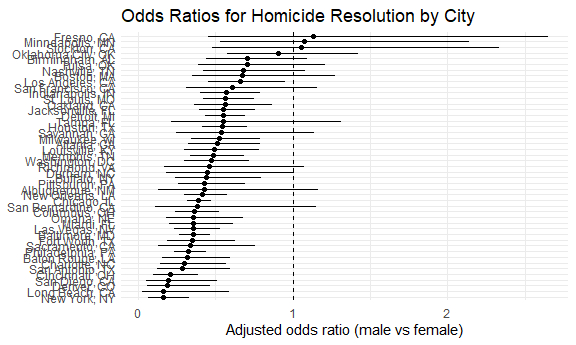
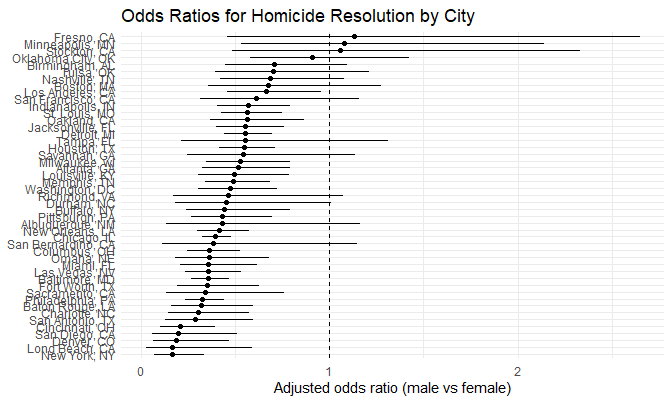
try to improve plot

Changed region(s): [[0.0, 0.0, 0.9688, 0.8986], [0.375, 0.8986, 0.8125, 0.9855], [0.1875, 0.8986, 0.25, 0.9275]]

diff --git a/P8105_HW6_rs4788.md b/P8105_HW6_rs4788.md
@@ -130,7 +130,7 @@ city_or_plot =
 city_or_plot
 ```
 
-<img src="P8105_HW6_rs4788_files/figure-gfm/unnamed-chunk-5-1.png" width="90%" />
+<img src="P8105_HW6_rs4788_files/figure-gfm/unnamed-chunk-5-1.png" width="100%" />
 
 Across all cities, only Fresno, Minneapolis, and Stockton had OR
 estimates exceeding 1. The point estimates for all other cities were
